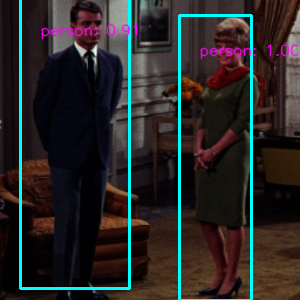
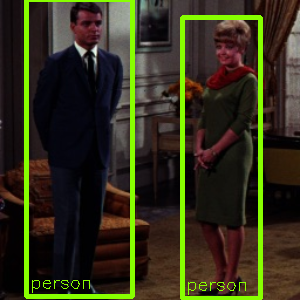
Use detector API

Changed region(s): [[0.57, 0.03, 1.0, 1.0], [0.06, 0.0, 0.48, 1.0]]

diff --git a/mobilenet_ssd/mobilenet_ssd.py b/mobilenet_ssd/mobilenet_ssd.py
@@ -6,7 +6,6 @@ import numpy as np
 import cv2
 
 import ailia
-from mobilenet_ssd_utils import plot_result
 
 # import original modules
 sys.path.append('../util')
@@ -20,7 +19,7 @@ from webcamera_utils import adjust_frame_size  # noqa: E402C
 # Parameters 1
 # ======================
 IMAGE_PATH = 'couple.jpg'
-SAVE_IMAGE_PATH = 'annotated.jpg'
+SAVE_IMAGE_PATH = 'annotated.png'
 IMAGE_HEIGHT = 300
 IMAGE_WIDTH = 300
 MODEL_LISTS = ['mb1-ssd', 'mb2-ssd-lite']
@@ -65,6 +64,68 @@ REMOTE_PATH = 'https://storage.googleapis.com/ailia-models/mobilenet_ssd/'
 
 
 # ======================
+# Display result
+# ======================
+voc_category=[
+    "aeroplane",
+    "bicycle",
+    "bird",
+    "boat",
+    "bottle",
+    "bus",
+    "car",
+    "cat",
+    "chair",
+    "cow",
+    "diningtable",
+    "dog",
+    "horse",
+    "motorbike",
+    "person",
+    "pottedplant",
+    "sheep",
+    "sofa",
+    "train",
+    "tvmonitor"
+]
+
+def hsv_to_rgb(h, s, v):
+	bgr = cv2.cvtColor(np.array([[[h, s, v]]], dtype=np.uint8), cv2.COLOR_HSV2BGR)[0][0]
+	return (int(bgr[0]), int(bgr[1]), int(bgr[2]), 255)
+
+def display_result(work,detector,logging):
+	# get result
+	count = detector.get_object_count()
+
+	if logging:
+		print("object_count=" + str(count))
+
+	w = work.shape[1]
+	h = work.shape[0]
+
+	for idx  in range(count) :
+		# print result
+		obj = detector.get_object(idx)
+		if logging:
+			print("+ idx=" + str(idx))
+			print("  category=" + str(obj.category) + "[ " + voc_category[obj.category] + " ]" )
+			print("  prob=" + str(obj.prob) )
+			print("  x=" + str(obj.x) )
+			print("  y=" + str(obj.y) )
+			print("  w=" + str(obj.w) )
+			print("  h=" + str(obj.h) )
+		top_left = ( int(w*obj.x), int(h*obj.y) )
+		bottom_right = ( int(w*(obj.x+obj.w)), int(h*(obj.y+obj.h)) )
+		text_position = ( int(w*obj.x)+4, int(h*(obj.y+obj.h)-8) )
+
+		# update image
+		color = hsv_to_rgb(255*obj.category/80,255,255)
+		cv2.rectangle( work, top_left, bottom_right, color, 4)
+		fontScale=w/512.0
+		cv2.putText( work, voc_category[obj.category], text_position, cv2.FONT_HERSHEY_SIMPLEX, fontScale, color, 1)
+
+
+# ======================
 # Main functions
 # ======================
 def recognize_from_image():
@@ -74,30 +135,27 @@ def recognize_from_image():
         (IMAGE_HEIGHT, IMAGE_WIDTH),
         normalize_type='None',
     )
-    input_data = org_img / 255.0
-    input_data = input_data.transpose((2, 0, 1))
-    input_data = input_data[np.newaxis, :, :, :]
+    if org_img.shape[2] == 3 :
+        org_img = cv2.cvtColor( org_img, cv2.COLOR_RGB2BGRA )
 
     # net initialize
     env_id = ailia.get_gpu_environment_id()
     print(f'env_id: {env_id}')
-    net = ailia.Net(MODEL_PATH, WEIGHT_PATH, env_id=env_id)
+    categories = 80
+    threshold = 0.4
+    iou = 0.45
+    detector = ailia.Detector(MODEL_PATH, WEIGHT_PATH, categories, format=ailia.NETWORK_IMAGE_FORMAT_RGB, channel=ailia.NETWORK_IMAGE_CHANNEL_FIRST, range=ailia.NETWORK_IMAGE_RANGE_U_FP32, algorithm=ailia.DETECTOR_ALGORITHM_SSD, env_id=env_id)
 
     # compute execution time
     for i in range(5):
         start = int(round(time.time() * 1000))
-
-        input_blobs = net.get_input_blob_list()
-        net.set_input_blob_data(input_data, input_blobs[0])
-        net.update()
-        scores, boxes = net.get_results()
-        
+        detector.compute(org_img, threshold, iou)
         end = int(round(time.time() * 1000))
         print(f'ailia processing time {end - start} ms')
 
     # postprocessing
-    res_img = plot_result(org_img, scores, boxes)
-    cv2.imwrite(args.savepath, cv2.cvtColor(res_img, cv2.COLOR_RGB2BGR))
+    display_result(org_img,detector,True)
+    cv2.imwrite(args.savepath,org_img)
     print('Script finished successfully.')
 
 
@@ -105,7 +163,10 @@ def recognize_from_video():
     # net initialize
     env_id = ailia.get_gpu_environment_id()
     print(f'env_id: {env_id}')
-    net = ailia.Net(MODEL_PATH, WEIGHT_PATH, env_id=env_id)
+    categories = 80
+    threshold = 0.4
+    iou = 0.45
+    detector = ailia.Detector(MODEL_PATH, WEIGHT_PATH, categories, format=ailia.NETWORK_IMAGE_FORMAT_RGB, channel=ailia.NETWORK_IMAGE_CHANNEL_FIRST, range=ailia.NETWORK_IMAGE_RANGE_U_FP32, algorithm=ailia.DETECTOR_ALGORITHM_SSD, env_id=env_id)
 
     if args.video == '0':
         print('[INFO] Webcam mode is activated')
@@ -125,18 +186,12 @@ def recognize_from_video():
             continue
 
         _, resized_img = adjust_frame_size(frame, IMAGE_HEIGHT, IMAGE_WIDTH)
-        input_data = cv2.cvtColor(resized_img, cv2.COLOR_BGR2RGB) / 255.0
-        input_data = input_data.transpose((2, 0, 1))
-        input_data = input_data[np.newaxis, :, :, :]
 
-        input_blobs = net.get_input_blob_list()
-        net.set_input_blob_data(input_data, input_blobs[0])
-        net.update()
-        scores, boxes = net.get_results()
-         
-        # postprocessing
-        res_img = plot_result(resized_img, scores, boxes)
-        cv2.imshow('frame', res_img)
+        img = cv2.cvtColor( resized_img, cv2.COLOR_RGB2BGRA )
+        detector.compute(img, threshold, iou)
+        display_result(resized_img,detector,False)
+
+        cv2.imshow('frame', resized_img)
 
     capture.release()
     cv2.destroyAllWindows()

diff --git a/README.md b/README.md
@@ -93,7 +93,7 @@ https://ailia.jp/en/
 
 | Name | Detail | Exported From | Supported Ailia Version |
 |:-----------|------------:|:------------:|:------------:|
-|[monodepth2](monodepth2)| [Monocular depth estimation from a single image](https://github.com/nianticlabs/monodepth2) | Pytorch | 1.2.2 beta and later |
+|[monodepth2](monodepth2)| [Monocular depth estimation from a single image](https://github.com/nianticlabs/monodepth2) | Pytorch | 1.2.2 and later |
 
 ## Text recognization
 
@@ -105,4 +105,4 @@ https://ailia.jp/en/
 
 | Name | Detail | Exported From | Supported Ailia Version |
 |:-----------|------------:|:------------:|:------------:|
-|[bert](/bert) | [pytorch-pretrained-bert](https://pypi.org/project/pytorch-pretrained-bert/) | Pytorch | 1.2.2 beta and later |
+|[bert](/bert) | [pytorch-pretrained-bert](https://pypi.org/project/pytorch-pretrained-bert/) | Pytorch | 1.2.2 and later |
